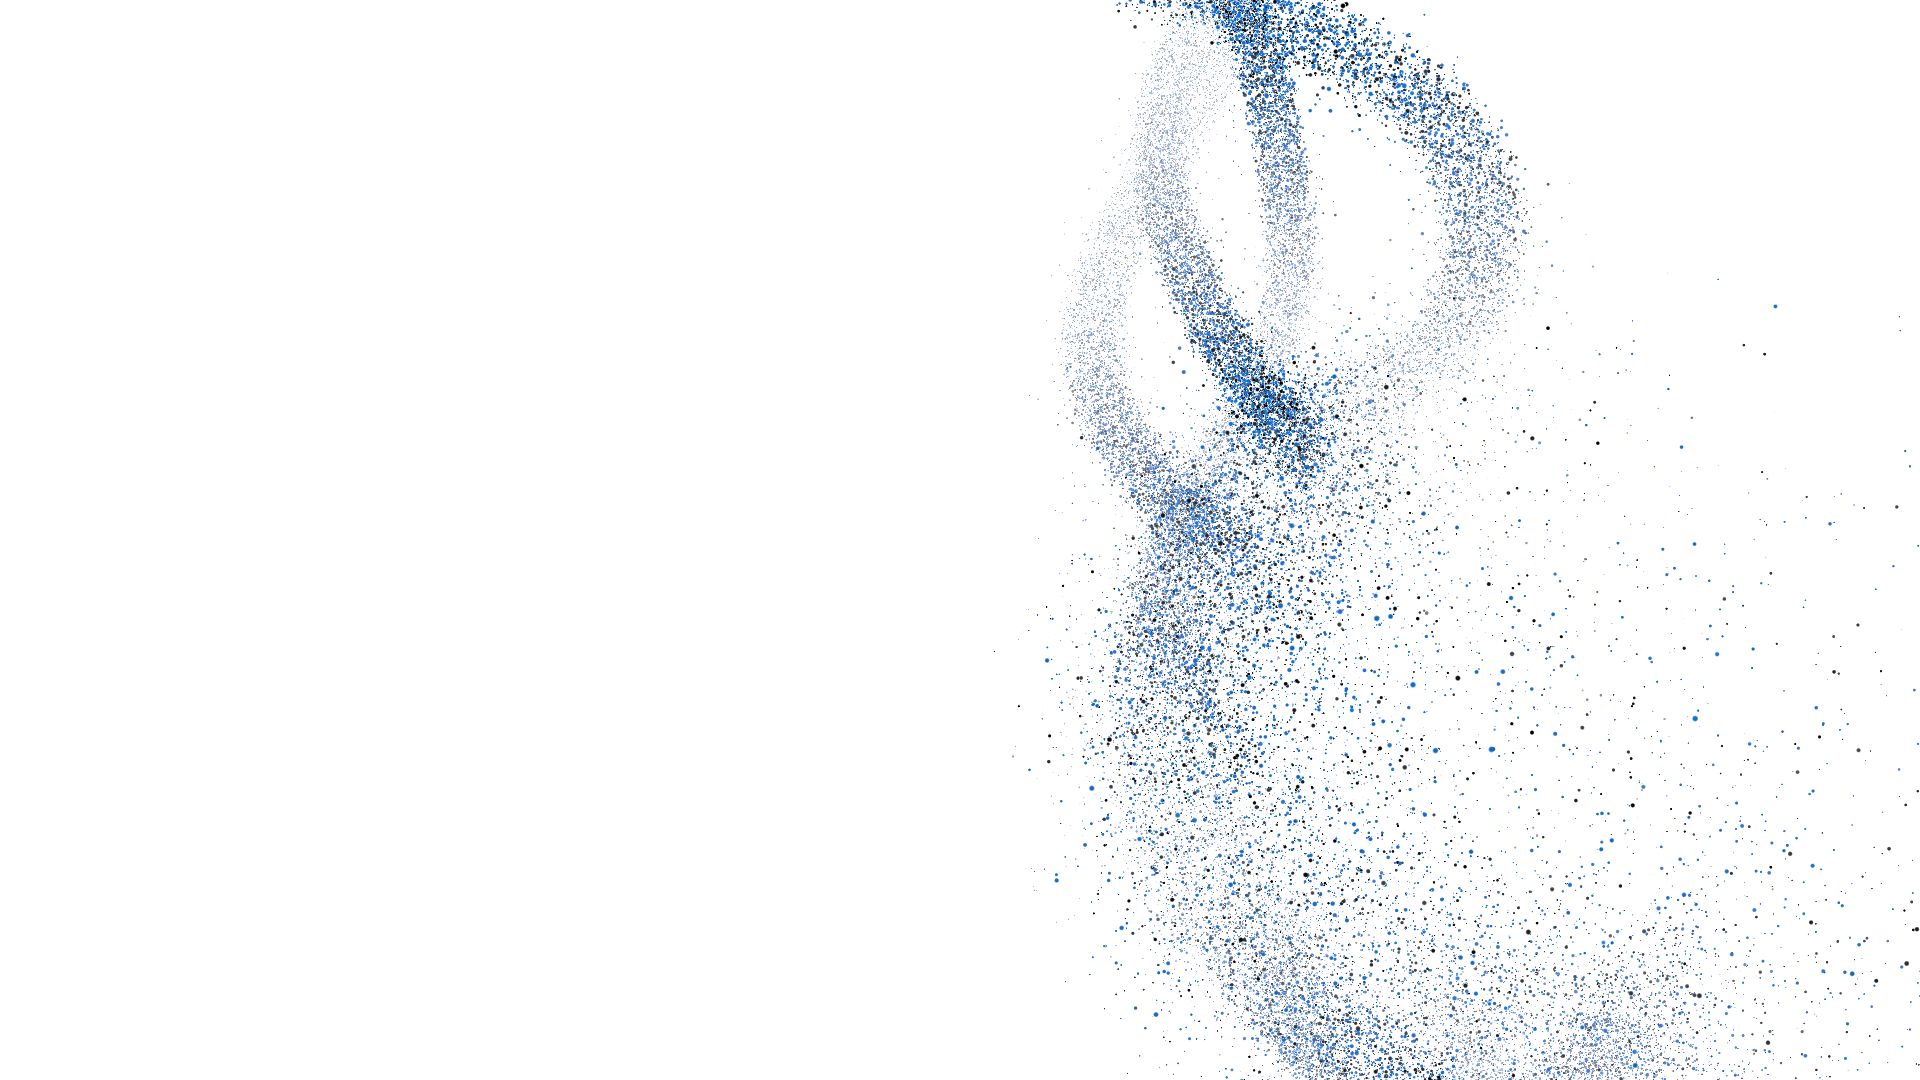
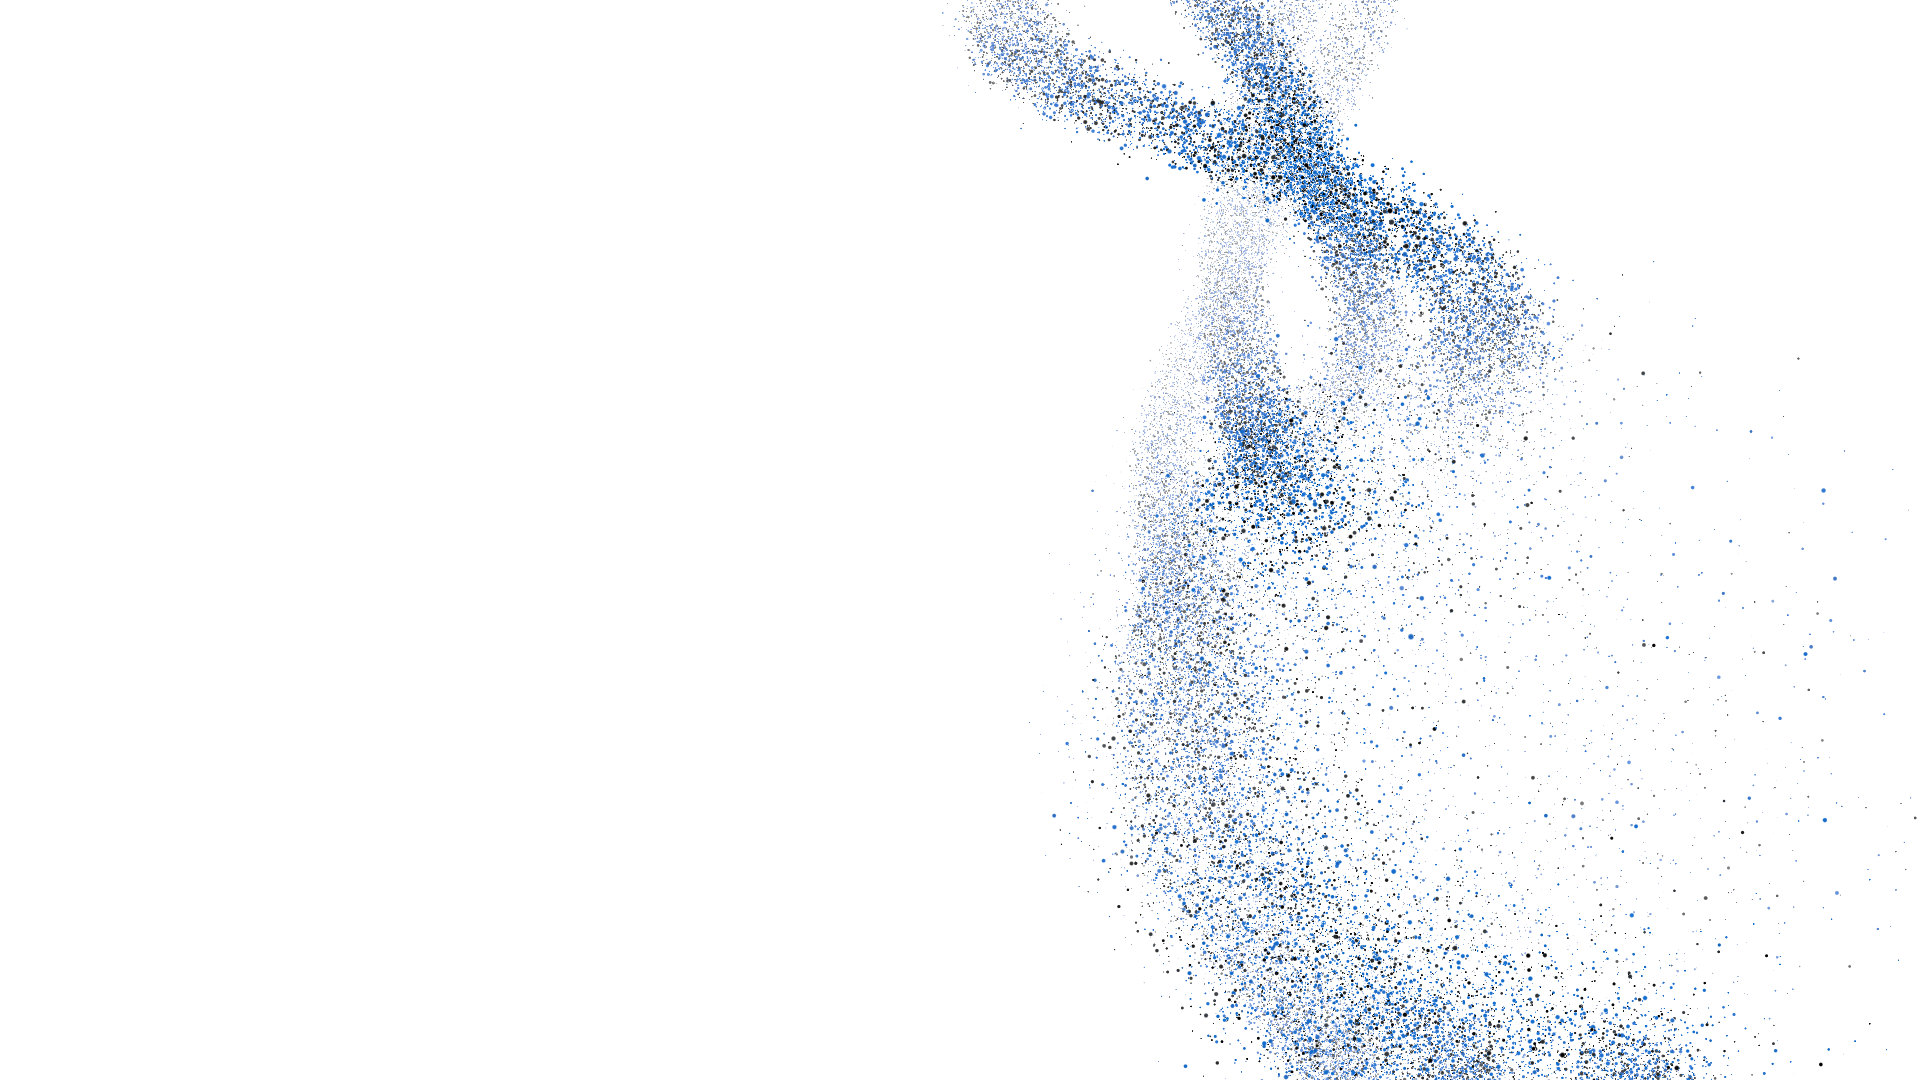
Make particles flow independently along drifting strand paths
Particles now travel faster with varied speeds, orbit and wander within
each strand, and strand paths drift slowly over time, so motion reads as
flowing particles instead of a rigid rotating shape. Seeded RNG keeps the
particle layout identical across reloads.

Claude-Session: https://claude.ai/code/session_01LC9PoW5GSUPN2TTK73ZPiw

Changed region(s): [[0.5, 0.0, 0.9062, 1.0]]

diff --git a/index.html b/index.html
@@ -19,8 +19,12 @@ import * as THREE from 'three';
 // ---------- Parametri (lako podesivi) ----------
 const CONFIG = {
   tiltDeg: 16,            // nagib ose: vrh se naginje ulevo
-  flowSpeed: 0.04,        // brzina kretanja cestica nagore
-  twistSpeed: 0.9,        // brzina uvijanja linija jedna oko druge
+  flowSpeed: 0.09,        // brzina kretanja cestica nagore (duz linije)
+  speedVariety: 0.55,     // razlika u brzini izmedju cestica (prestizu jedna drugu)
+  twistSpeed: 0.22,       // koliko se sam oblik okrece (malo - kretanje nose cestice)
+  orbitSpeed: 1.6,        // koliko brzo cestice kruze unutar linije
+  wander: 0.07,           // slobodno lutanje svake cestice
+  pathDrift: 0.35,        // koliko se putanja linija polako menja u vremenu
   blueShare: 0.62,        // udeo plavih cestica (ostalo tamne) - boje su izmesane
   particlesPerStrand: 24000,
   thickness: 0.2,         // debljina linije
@@ -64,10 +68,19 @@ const dir = new THREE.Vector3(-Math.sin(tilt), Math.cos(tilt), 0);
 const uAxis = new THREE.Vector3(Math.cos(tilt), Math.sin(tilt), 0);
 const wAxis = new THREE.Vector3(0, 0, 1);
 
+// nasumicne vrednosti sa fiksnim seed-om: cestice izgledaju isto pri svakom ucitavanju
+let seed = 1369;
+const rand = () => {
+  seed |= 0; seed = seed + 0x6D2B79F5 | 0;
+  let t = Math.imul(seed ^ seed >>> 15, 1 | seed);
+  t = t + Math.imul(t ^ t >>> 7, 61 | t) ^ t;
+  return ((t ^ t >>> 14) >>> 0) / 4294967296;
+};
+
 const gauss = () => {
   let u = 0, v = 0;
-  while (u === 0) u = Math.random();
-  while (v === 0) v = Math.random();
+  while (u === 0) u = rand();
+  while (v === 0) v = rand();
   return Math.sqrt(-2 * Math.log(u)) * Math.cos(2 * Math.PI * v);
 };
 
@@ -75,7 +88,7 @@ const total = STRANDS.length * CONFIG.particlesPerStrand;
 const aS = new Float32Array(total);
 const aStA = new Float32Array(total * 4);
 const aStB = new Float32Array(total * 4);
-const aOff = new Float32Array(total * 3);
+const aOrb = new Float32Array(total * 4);
 const aRand = new Float32Array(total * 4);
 const aSize = new Float32Array(total);
 const aSpeed = new Float32Array(total);
@@ -85,22 +98,22 @@ let i = 0;
 STRANDS.forEach((st) => {
   const blue = new THREE.Color(CONFIG.blue), dark = new THREE.Color(CONFIG.dark);
   for (let k = 0; k < CONFIG.particlesPerStrand; k++, i++) {
-    aS[i] = Math.random();
+    aS[i] = rand();
     aStA.set([st.r, st.f, st.ph, st.spin], i * 4);
     aStB.set([st.ra, st.rk, st.wa, st.wk], i * 4);
     // cestice su rasporedjene kao cev: vise ka ivicama, redje u samom centru linije
-    const spread = CONFIG.thickness * st.thick * (Math.random() < 0.06 ? 1.8 : 1.0);
-    const rad = spread * (CONFIG.coreHollow + (1 - CONFIG.coreHollow) * Math.sqrt(Math.random()));
-    const dv = new THREE.Vector3(gauss(), gauss() * 0.6, gauss()).normalize();
-    const jit = spread * 0.12;
-    aOff.set([dv.x * rad + gauss() * jit, dv.y * rad + gauss() * jit, dv.z * rad + gauss() * jit], i * 3);
+    const spread = CONFIG.thickness * st.thick * (rand() < 0.06 ? 1.8 : 1.0);
+    const rad = spread * (CONFIG.coreHollow + (1 - CONFIG.coreHollow) * Math.sqrt(rand()));
+    // svaka cestica kruzi oko centra linije svojim uglom i brzinom (spiralna putanja)
+    const orbit = (rand() < 0.5 ? -1 : 1) * (0.3 + rand()) * CONFIG.orbitSpeed;
+    aOrb.set([rand() * Math.PI * 2, orbit, rad, rand() * 100], i * 4);
     // nasumican pravac za rasipanje
     const v = new THREE.Vector3(gauss(), gauss(), gauss()).normalize();
-    aRand.set([v.x, v.y, v.z, 0.4 + Math.random() * 1.2], i * 4);
-    aSize[i] = 0.6 + Math.random() * Math.random() * 1.8;
-    aSpeed[i] = 0.85 + Math.random() * 0.3;
-    const c = (Math.random() < CONFIG.blueShare ? blue : dark).clone()
-      .offsetHSL(0, 0, (Math.random() - 0.5) * 0.08);
+    aRand.set([v.x, v.y, v.z, 0.4 + rand() * 1.2], i * 4);
+    aSize[i] = 0.6 + rand() * rand() * 1.8;
+    aSpeed[i] = 1 + (rand() * 2 - 1) * CONFIG.speedVariety;
+    const c = (rand() < CONFIG.blueShare ? blue : dark).clone()
+      .offsetHSL(0, 0, (rand() - 0.5) * 0.08);
     aColor.set([c.r, c.g, c.b], i * 3);
   }
 });
@@ -110,7 +123,7 @@ geo.setAttribute('position', new THREE.BufferAttribute(new Float32Array(total * 
 geo.setAttribute('aS', new THREE.BufferAttribute(aS, 1));
 geo.setAttribute('aStA', new THREE.BufferAttribute(aStA, 4));
 geo.setAttribute('aStB', new THREE.BufferAttribute(aStB, 4));
-geo.setAttribute('aOff', new THREE.BufferAttribute(aOff, 3));
+geo.setAttribute('aOrb', new THREE.BufferAttribute(aOrb, 4));
 geo.setAttribute('aRand', new THREE.BufferAttribute(aRand, 4));
 geo.setAttribute('aSize', new THREE.BufferAttribute(aSize, 1));
 geo.setAttribute('aSpeed', new THREE.BufferAttribute(aSpeed, 1));
@@ -124,6 +137,8 @@ const mat = new THREE.ShaderMaterial({
     uLen: { value: CONFIG.length },
     uFlow: { value: CONFIG.flowSpeed },
     uTwist: { value: CONFIG.twistSpeed },
+    uWander: { value: CONFIG.wander },
+    uDrift: { value: CONFIG.pathDrift },
     uCenter: { value: new THREE.Vector3() },
     uDir: { value: dir },
     uU: { value: uAxis },
@@ -135,9 +150,9 @@ const mat = new THREE.ShaderMaterial({
     uMouseS: { value: CONFIG.mouseStrength },
   },
   vertexShader: /* glsl */`
-    attribute float aS; attribute vec4 aStA; attribute vec4 aStB; attribute vec3 aOff; attribute vec4 aRand;
+    attribute float aS; attribute vec4 aStA; attribute vec4 aStB; attribute vec4 aOrb; attribute vec4 aRand;
     attribute float aSize; attribute float aSpeed; attribute vec3 aColor;
-    uniform float uTime, uLen, uFlow, uTwist, uPx, uForce, uMouseR, uMouseS;
+    uniform float uTime, uLen, uFlow, uTwist, uWander, uDrift, uPx, uForce, uMouseR, uMouseS;
     uniform vec3 uCenter, uDir, uU, uW, uMouse;
     varying vec3 vColor; varying float vAlpha;
     void main() {
@@ -148,8 +163,18 @@ const mat = new THREE.ShaderMaterial({
       // poluprecnik se menja duz linije (ne pulsira u vremenu)
       float r = aStA.x * (1.0 + aStB.x * sin(aStB.y * s + aStA.z * 1.7));
       // sopstveno vijuganje linije, nezavisno od ostalih
-      float wob = aStB.z * sin(aStB.w * s + aStA.z * 2.3);
-      vec3 p = uCenter + uDir * s + uU * wob + r * (cos(th) * uU + sin(th) * uW) + aOff;
+      // putanja linije se polako menja u vremenu - linije nisu unapred odredjene
+      float wob = aStB.z * sin(aStB.w * s + aStA.z * 2.3 + uTime * uDrift)
+                + 0.12 * sin(0.37 * s - uTime * uDrift * 1.3 + aStA.z * 4.1);
+      vec3 center = uCenter + uDir * s + uU * wob + r * (cos(th) * uU + sin(th) * uW);
+      // cestica kruzi oko centra linije svojom brzinom i luta
+      float a = aOrb.x + uTime * aOrb.y + s * 0.8;
+      vec3 orbit = aOrb.z * (cos(a) * uU + sin(a) * uW);
+      float n = aOrb.w;
+      vec3 wander = uWander * vec3(sin(uTime * 1.3 + n + s * 2.1),
+                                   sin(uTime * 0.9 + n * 1.7),
+                                   sin(uTime * 1.1 + n * 2.3 + s * 1.7));
+      vec3 p = center + orbit + wander;
 
       // rasipanje oko kursora
       vec2 d = p.xy - uMouse.xy;

diff --git a/README.md b/README.md
@@ -16,7 +16,11 @@ npx serve .
 |---|---|
 | `tiltDeg` | nagib ose (vrh ulevo) |
 | `flowSpeed` | brzina kretanja čestica nagore |
-| `twistSpeed` | brzina uvijanja linija jedna oko druge |
+| `speedVariety` | razlika u brzini između čestica |
+| `orbitSpeed` | kruženje čestica unutar linije |
+| `wander` | slobodno lutanje čestica |
+| `pathDrift` | koliko se putanje linija menjaju u vremenu |
+| `twistSpeed` | koliko se sam oblik okreće |
 | `particlesPerStrand` | gustina čestica po liniji |
 | `thickness` | debljina linije |
 | `coreHollow` | koliko je centar linije ređi |
